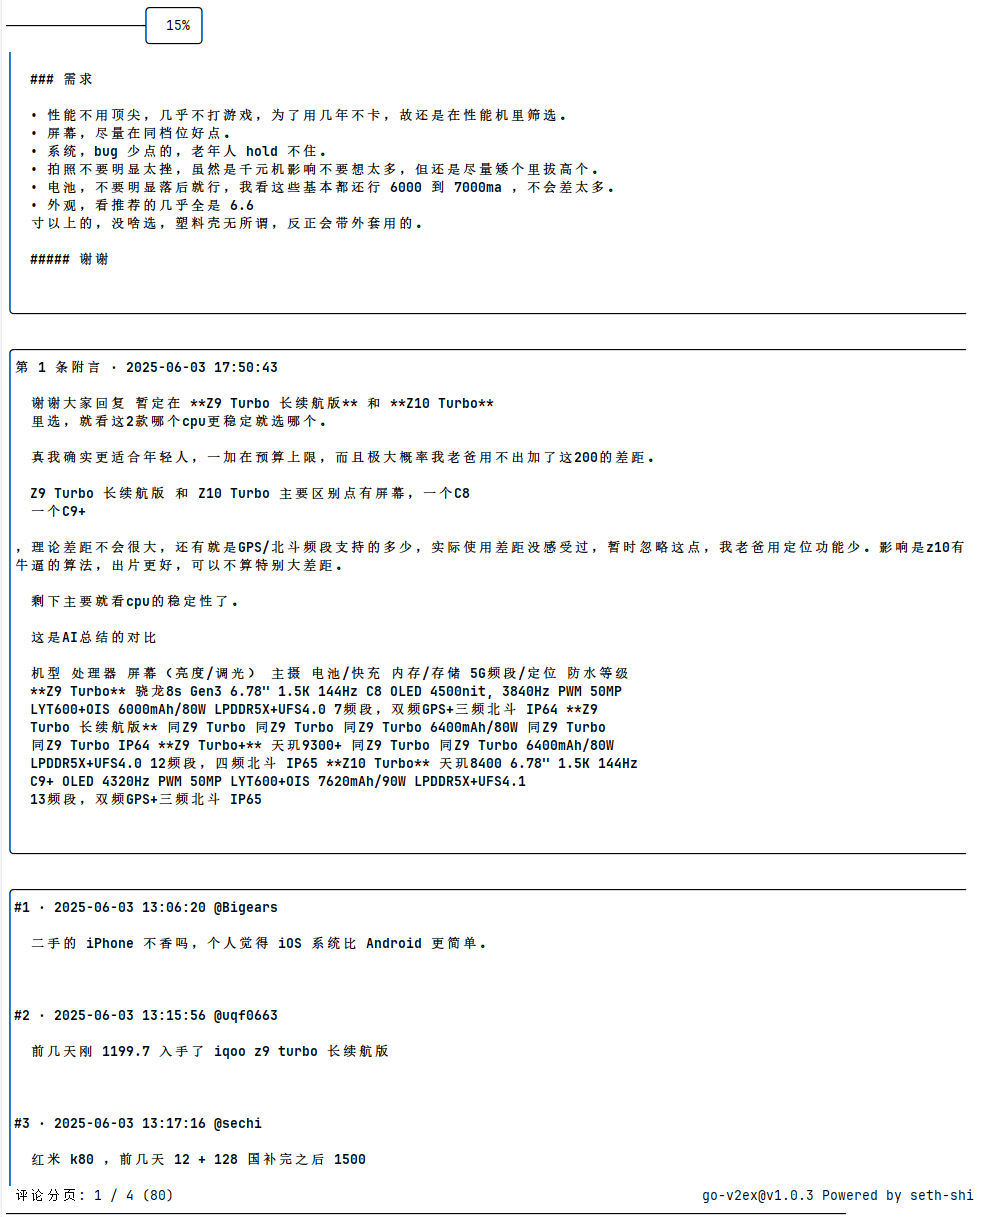
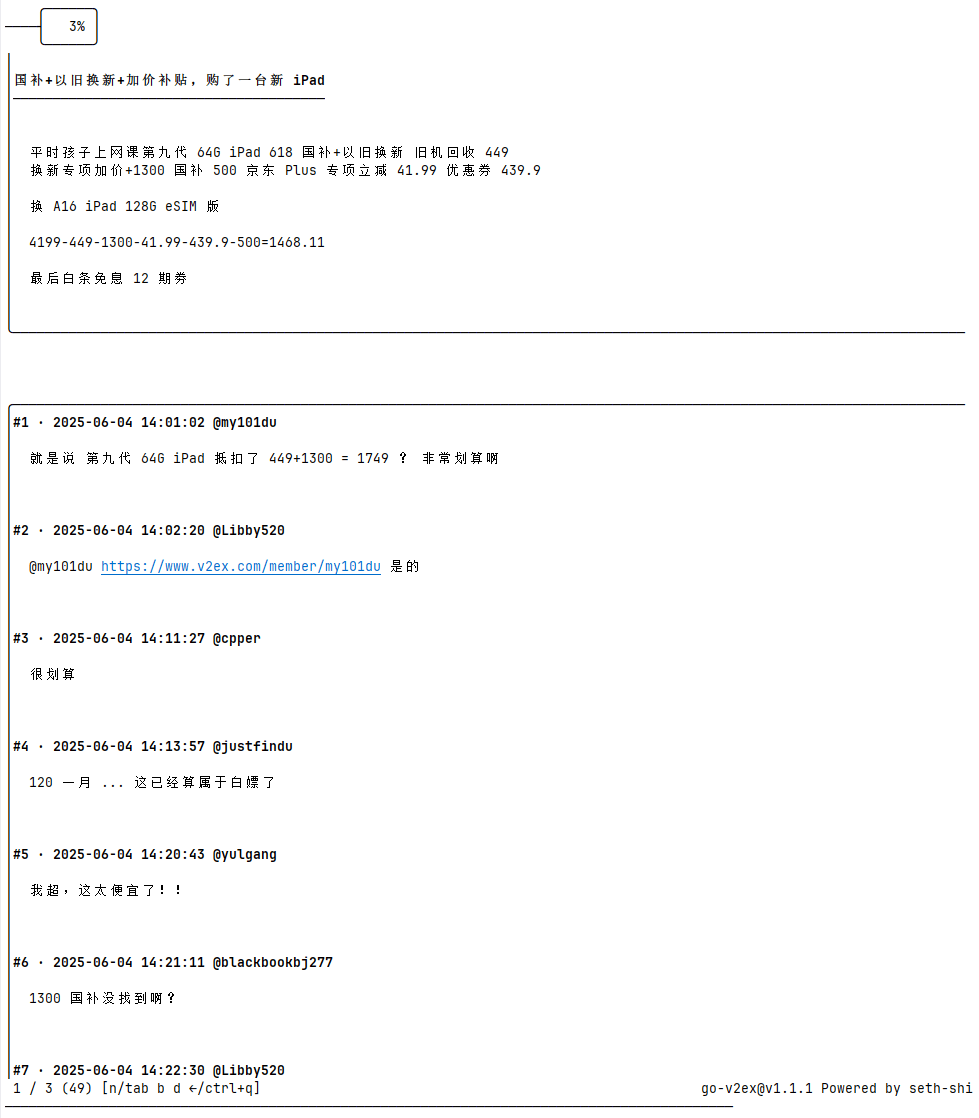
add: readme image

Changed region(s): [[0.0, 0.0608, 0.9806, 0.8211], [0.0, 0.8211, 1.0, 1.0], [0.0306, 0.0, 0.2145, 0.0304]]

diff --git a/internal/ui/components/detail/detail.go b/internal/ui/components/detail/detail.go
@@ -37,7 +37,7 @@ var (
 			NewStyle().
 			Border(lipgloss.RoundedBorder())
 	keyHelp = fmt.Sprintf(
-		"[%s/n b d %s]",
+		"[n/%s b d %s/ctrl+q]",
 		consts.AppKeyMap.Tab.Help().Key,
 		consts.AppKeyMap.Left.Help().Key,
 	)
@@ -95,7 +95,7 @@ func (m Model) Update(msg tea.Msg) (tea.Model, tea.Cmd) {
 		case key.Matches(msgType, consts.AppKeyMap.Tab),
 			msgType.String() == "n":
 			return m, m.getReply(m.id)
-		case key.Matches(msgType, consts.AppKeyMap.Left):
+		case key.Matches(msgType, consts.AppKeyMap.Left), msgType.String() == "ctrl+q":
 			return m, messages.Post(messages.RedirectTopicsPage{})
 		}
 	}

diff --git a/internal/consts/version.go b/internal/consts/version.go
@@ -2,5 +2,5 @@ package consts
 
 const (
 	AppName    = "go-v2ex"
-	AppVersion = "v1.1.1"
+	AppVersion = "v1.2.0"
 )
